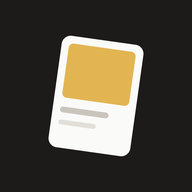
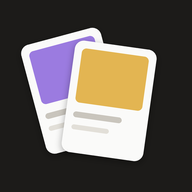
Icono nuevo: segunda carta con panel violeta detrás
Claude-Session: https://claude.ai/code/session_01GWHz75ujxqcLvRK32qqGSA

Changed region(s): [[0.0938, 0.125, 0.8438, 0.8438]]

diff --git a/index.html b/index.html
@@ -7,14 +7,14 @@
 <meta name="apple-mobile-web-app-capable" content="yes">
 <meta name="apple-mobile-web-app-status-bar-style" content="default">
 <meta name="apple-mobile-web-app-title" content="Pick up">
-<link rel="manifest" href="manifest.json">
-<link rel="apple-touch-icon" href="icon-180.png">
-<link rel="icon" href="icon-192.png">
+<link rel="manifest" href="manifest.json?v=7">
+<link rel="apple-touch-icon" href="icon-180.png?v=7">
+<link rel="icon" href="icon-192.png?v=7">
 <title>Pick up</title>
 <link rel="preconnect" href="https://fonts.googleapis.com">
 <link rel="preconnect" href="https://fonts.gstatic.com" crossorigin>
 <link rel="stylesheet" href="https://fonts.googleapis.com/css2?family=Cinzel:wght@500;600&family=Cormorant+Garamond:ital,wght@0,500;0,600;1,500;1,600&family=Montserrat:wght@400;500;600&family=Playfair+Display:ital,wght@0,500;0,600;1,500;1,600&display=swap">
-<link rel="stylesheet" href="style.css?v=6">
+<link rel="stylesheet" href="style.css?v=7">
 </head>
 <body>
 <div class="bg-layer" aria-hidden="true"></div>
@@ -281,7 +281,7 @@
 
 <div class="toast" id="toast" role="status"></div>
 
-<script src="cards.js?v=6"></script>
-<script src="app.js?v=6"></script>
+<script src="cards.js?v=7"></script>
+<script src="app.js?v=7"></script>
 </body>
 </html>

diff --git a/sw.js b/sw.js
@@ -1,5 +1,5 @@
-const CACHE = 'pickup-v6';
-const ASSETS = ['./', 'index.html', 'style.css?v=6', 'app.js?v=6', 'cards.js?v=6', 'manifest.json', 'icon-192.png', 'icon-512.png', 'icon-180.png'];
+const CACHE = 'pickup-v7';
+const ASSETS = ['./', 'index.html', 'style.css?v=7', 'app.js?v=7', 'cards.js?v=7', 'manifest.json', 'icon-192.png', 'icon-512.png', 'icon-180.png'];
 self.addEventListener('install', e => {
   e.waitUntil(caches.open(CACHE).then(c => c.addAll(ASSETS)).then(() => self.skipWaiting()));
 });

diff --git a/app.js b/app.js
@@ -1001,7 +1001,7 @@ function toast(msg) {
   clearTimeout(toastT); toastT = setTimeout(() => t.classList.remove('show'), 2400);
 }
 
-const APP_VERSION = '6 · tipos';
+const APP_VERSION = '7 · icono nuevo';
 if ('serviceWorker' in navigator) {
   navigator.serviceWorker.register('sw.js', { updateViaCache: 'none' }).then(reg => reg.update()).catch(() => {});
   // Cuando llega una versión nueva, recarga una vez para mostrarla
